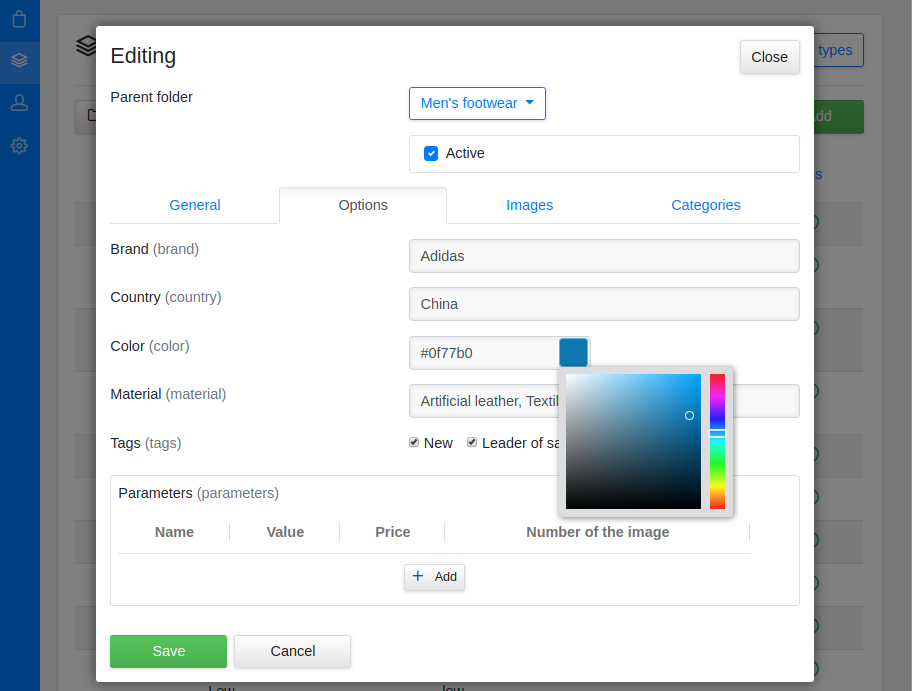
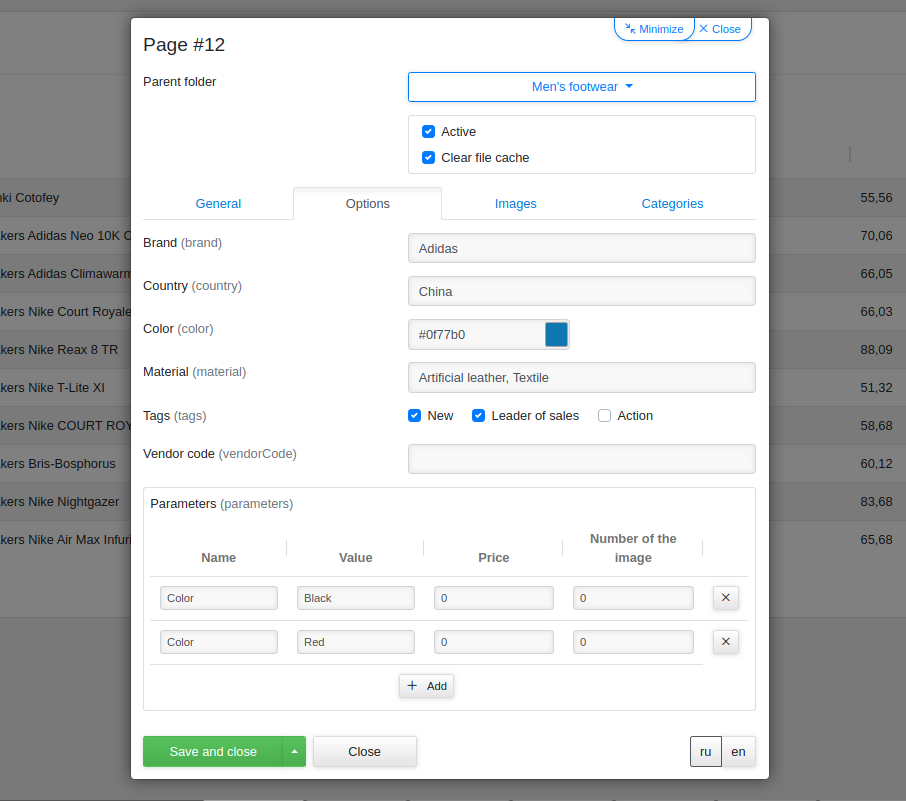
Minimize product modal

diff --git a/frontend/src/app/modal.abstract.ts b/frontend/src/app/modal.abstract.ts
@@ -1,4 +1,4 @@
-import {Input, OnDestroy, OnInit} from '@angular/core';
+import {ElementRef, Input, OnDestroy, OnInit} from '@angular/core';
 import {AbstractControl, FormBuilder, FormControl, FormGroup, Validators} from '@angular/forms';
 
 import {Subject} from 'rxjs';
@@ -15,8 +15,10 @@ import {FormFieldInterface, FormFieldOptionsInterface} from './models/form-field
  * @deprecated since version 4.1.1. Use AppModalContentAbstractComponent instead.
  */
 export abstract class ModalContentAbstractComponent<M> implements OnInit, OnDestroy {
+
     @Input() modalTitle: string;
     @Input() itemId: number | null;
+    @Input() modalId = '';
     @Input() isItemCopy: boolean;
     @Input() isEditMode: boolean;
 
@@ -45,7 +47,8 @@ export abstract class ModalContentAbstractComponent<M> implements OnInit, OnDest
         public systemNameService: SystemNameService,
         public activeModal: NgbActiveModal,
         public tooltipConfig: NgbTooltipConfig,
-        public translateService: TranslateService
+        public translateService: TranslateService,
+        public elRef: ElementRef
     ) {
         tooltipConfig.placement = 'bottom';
         tooltipConfig.container = 'body';
@@ -53,6 +56,9 @@ export abstract class ModalContentAbstractComponent<M> implements OnInit, OnDest
     }
 
     ngOnInit(): void {
+        if (this.elRef) {
+            this.getRootElement().setAttribute('id', this.modalId);
+        }
         this.onBeforeInit();
         this.buildForm();
         if (this.isEditMode || this.isItemCopy) {
@@ -209,7 +215,10 @@ export abstract class ModalContentAbstractComponent<M> implements OnInit, OnDest
     }
 
     /** Close modal */
-    closeModal() {
+    closeModal(event?: MouseEvent) {
+        if (event) {
+            event.preventDefault();
+        }
         const reason = this.itemId ? 'edit' : 'create';
         this.activeModal.close({reason: reason, data: this.model});
     }
@@ -219,6 +228,32 @@ export abstract class ModalContentAbstractComponent<M> implements OnInit, OnDest
             event.preventDefault();
         }
         this.activeModal.dismiss(this.closeReason);
+    }
+
+    minimize(event?: MouseEvent): void {
+        if (event) {
+            event.preventDefault();
+        }
+        window.document.body.classList.remove('modal-open');
+        const modalEl = this.getRootElement();
+        const backdropEl = modalEl.previousElementSibling;
+
+        modalEl.classList.remove('d-block');
+        modalEl.classList.add('modal-minimized');
+        backdropEl.classList.add('d-none');
+    }
+
+    maximize(event?: MouseEvent): void {
+        if (event) {
+            event.preventDefault();
+        }
+        window.document.body.classList.add('modal-open');
+        const modalEl = this.getRootElement();
+        const backdropEl = modalEl.previousElementSibling;
+
+        modalEl.classList.add('d-block');
+        modalEl.classList.remove('modal-minimized');
+        backdropEl.classList.remove('d-none');
     }
 
     getFormData(): any {
@@ -393,6 +428,10 @@ export abstract class ModalContentAbstractComponent<M> implements OnInit, OnDest
         } else if (!EMAIL_REGEXP.test(control.value)) {
             return {email: true};
         }
+    }
+
+    getRootElement(): HTMLElement {
+        return this.elRef.nativeElement.parentNode.parentNode.parentNode;
     }
 
     ngOnDestroy(): void {

diff --git a/frontend/src/app/catalog/templates/modal-product.html b/frontend/src/app/catalog/templates/modal-product.html
@@ -1,15 +1,31 @@
-<div class="position-relative">
+<div class="position-relative modal-on-maximized">
     <div class="tabs-top">
-        <button type="button" class="btn btn-outline-primary d-block d-md-inline-block ml-md-2"
+        <button type="button" class="btn btn-outline-primary btn-sm d-block"
                 [disabled]="submitted"
-                (click)="close($event)">
+                (click)="closeModal($event)">
             <i class="icon-cross mr-1"></i>
             <span>{{'CLOSE' | translate}}</span>
+        </button>
+        <button type="button" class="btn btn-outline-primary btn-sm d-block"
+                [disabled]="submitted"
+                (click)="minimize($event)">
+            <i class="icon-minimize mr-1"></i>
+            <span>{{'MINIMIZE' | translate}}</span>
         </button>
     </div>
 </div>
 <div class="modal-header d-block">
-    <h4 class="modal-title">{{modalTitle}}</h4>
+    <div class="position-relative modal-on-minimized">
+        <div class="pos-absolute-right">
+            <button type="button" class="btn btn-no-border btn-sm-sm" [title]="'EXPAND' | translate" (click)="maximize($event)">
+                <i class="icon-maximize"></i>
+            </button>
+            <button type="button" class="btn btn-no-border btn-sm-sm ml-1" [title]="'CLOSE' | translate" (click)="closeModal($event)">
+                <i class="icon-cross"></i>
+            </button>
+        </div>
+    </div>
+    <h4 class="modal-title text-overflow mr-5">{{modalTitle}}</h4>
 </div>
 
 <form [formGroup]="form" [class.loading]="loading">
@@ -97,7 +113,7 @@
                 </div>
             </div>
         </div>
-        <button type="button" class="btn btn-secondary btn-wide" (click)="close($event)">
+        <button type="button" class="btn btn-secondary btn-wide" (click)="closeModal($event)">
             <span>{{'CLOSE' | translate}}</span>
         </button>
     </div>

diff --git a/frontend/src/app/catalog/product.component.ts b/frontend/src/app/catalog/product.component.ts
@@ -1,4 +1,4 @@
-import {Component, Input, OnInit, ViewChild} from '@angular/core';
+import {Component, ElementRef, Input, OnInit, ViewChild} from '@angular/core';
 import {NgbActiveModal, NgbTooltipConfig} from '@ng-bootstrap/ng-bootstrap';
 import {FormControl, FormBuilder, Validators} from '@angular/forms';
 import {Observable} from 'rxjs';
@@ -22,7 +22,8 @@ import {FormFieldInterface} from '../models/form-field.interface';
 
 @Component({
     selector: 'app-product-modal-content',
-    templateUrl: 'templates/modal-product.html'
+    templateUrl: 'templates/modal-product.html',
+    providers: [ProductsService]
 })
 export class ProductModalContentComponent extends ModalContentAbstractComponent<Product> implements OnInit {
 
@@ -60,18 +61,22 @@ export class ProductModalContentComponent extends ModalContentAbstractComponent<
         public activeModal: NgbActiveModal,
         public tooltipConfig: NgbTooltipConfig,
         public translateService: TranslateService,
+        public elRef: ElementRef,
         private contentTypesService: ContentTypesService,
         private categoriesService: CategoriesService,
         private filesService: FilesService,
         private appSettings: AppSettings
     ) {
-        super(fb, dataService, systemNameService, activeModal, tooltipConfig, translateService);
+        super(fb, dataService, systemNameService, activeModal, tooltipConfig, translateService, elRef);
 
         this.model.id = 0;
         this.model.parentId = 0;
     }
 
     ngOnInit(): void {
+        if (this.elRef) {
+            this.getRootElement().setAttribute('id', this.modalId);
+        }
         this.localeList = this.appSettings.settings.localeList;
         if (this.localeList.length > 0) {
             this.localeDefault = this.localeList[0];

diff --git a/frontend/src/app/catalog/catalog-category.component.ts b/frontend/src/app/catalog/catalog-category.component.ts
@@ -16,7 +16,8 @@ import {ContentTypesService} from './services/content_types.service';
 
 @Component({
     selector: 'app-catalog-category',
-    templateUrl: 'templates/catalog-category.html'
+    templateUrl: 'templates/catalog-category.html',
+    providers: [ProductsService]
 })
 export class CatalogCategoryComponent extends PageTableAbstractComponent<Product> implements OnInit {
 
@@ -112,9 +113,19 @@ export class CatalogCategoryComponent extends PageTableAbstractComponent<Product
         this.getList();
     }
 
-    setModalInputs(itemId?: number, isItemCopy: boolean = false): void {
-        PageTableAbstractComponent.prototype.setModalInputs.call(this, itemId, isItemCopy);
-        this.modalRef.componentInstance.category = this.currentCategory;
+    setModalInputs(itemId?: number, isItemCopy: boolean = false, modalId = ''): void {
+        const isEditMode = typeof itemId !== 'undefined' && !isItemCopy;
+        this.modalRef.componentInstance.modalTitle = isEditMode
+            ? `${this.getLangString('PAGE')} #${itemId}`
+            : this.getLangString('ADD');
+        this.modalRef.componentInstance.modalId = modalId;
+        this.modalRef.componentInstance.itemId = itemId || 0;
+        this.modalRef.componentInstance.isItemCopy = isItemCopy || false;
+        this.modalRef.componentInstance.isEditMode = isEditMode;
+        this.modalRef.componentInstance.category = Object.assign({}, this.currentCategory);
     }
 
+    getModalElementId(itemId?: number): string {
+        return ['modal', 'product', itemId || 0].join('-');
+    }
 }

diff --git a/frontend/src/app/catalog/content-types.component.ts b/frontend/src/app/catalog/content-types.component.ts
@@ -1,4 +1,4 @@
-import {Component, OnInit, ViewChild} from '@angular/core';
+import {Component, ElementRef, OnInit, ViewChild} from '@angular/core';
 import {FormGroup, FormBuilder, Validators} from '@angular/forms';
 import {NgbModal, NgbActiveModal, NgbModalRef, NgbPopover, NgbTooltipConfig} from '@ng-bootstrap/ng-bootstrap';
 import {find, map, findIndex, cloneDeep, extend} from 'lodash';
@@ -165,22 +165,23 @@ export class ContentTypeModalContentComponent extends ModalContentAbstractCompon
         public activeModal: NgbActiveModal,
         public tooltipConfig: NgbTooltipConfig,
         public translateService: TranslateService,
+        public elRef: ElementRef,
         private fieldTypesService: FieldTypesService,
         private collectionsService: CollectionsService,
         private modalService: NgbModal
     ) {
-        super(fb, dataService, systemNameService, activeModal, tooltipConfig, translateService);
+        super(fb, dataService, systemNameService, activeModal, tooltipConfig, translateService, elRef);
     }
 
     /** On initialize */
     ngOnInit(): void {
-        ModalContentAbstractComponent.prototype.ngOnInit.call(this);
+        super.ngOnInit();
         this.getFieldTypes();
         this.getCollectionsList();
     }
 
     buildForm(): void {
-        ModalContentAbstractComponent.prototype.buildForm.call(this);
+        super.buildForm();
 
         const controls = this.buildControls(this.fieldsFormOptions, 'fieldModel', 'fld_');
         this.fieldForm = this.fb.group(controls);

diff --git a/frontend/src/app/catalog/categories.component.ts b/frontend/src/app/catalog/categories.component.ts
@@ -13,6 +13,7 @@ import {Router, ActivatedRoute} from '@angular/router';
 import {FormBuilder, Validators} from '@angular/forms';
 
 import {Observable, Subject} from 'rxjs';
+import {takeUntil} from 'rxjs/operators';
 import {TreeNode} from 'primeng/primeng';
 
 import {findIndex, clone, cloneDeep} from 'lodash';
@@ -254,6 +255,7 @@ export class CategoriesMenuComponent implements OnInit, OnDestroy {
         this.getCategories().then((categories: Category[]) => {
             this.loading = false;
             this.route.paramMap
+                .pipe(takeUntil(this.destroyed$))
                 .subscribe(
                     params => {
                         this.categoryId = params.get('categoryId')
@@ -292,7 +294,6 @@ export class CategoriesMenuComponent implements OnInit, OnDestroy {
                             this.categories = data.items;
                             this.categoriesTree = [Category.createTree(data.items)];
                         }
-                        this.selectCurrent();
                         resolve(data.items);
                     },
                     error => {

diff --git a/frontend/src/app/templates/render-input-field.html b/frontend/src/app/templates/render-input-field.html
@@ -434,8 +434,7 @@
                                             <tr class="bg-faded">
                                                 <td colspan="4" class="text-center pb-2">
                                                     <button type="button" class="btn btn-secondary btn-sm" (click)="parametersAdd(field.name)">
-                                                        <i class="icon-plus"></i>
-                                                        &nbsp;
+                                                        <i class="icon-plus mr-1"></i>
                                                         <span>{{'ADD' | translate}}</span>
                                                     </button>
                                                 </td>

diff --git a/public/admin/i18n/ru.js b/public/admin/i18n/ru.js
@@ -116,6 +116,7 @@ var APP_LANG = {
     "ORDER_CONTENT": "Состав заказа",
     "OUTPUT_OPTIONS": "Параметры вывода",
     "OUTPUT_TYPE": "Тип вывода",
+    "PAGE": "Страница",
     "PARAMETER": "Параметр",
     "PARENT_FOLDER": "Родительская категория",
     "PASSWORD": "Пароль",
@@ -128,6 +129,7 @@ var APP_LANG = {
     "PRINT": "Печать",
     "PLEASE_SELECT_FILE": "Пожалуйста, выберите файл.",
     "PLEASE_FIX_FORM_ERRORS": "Пожалуйста, исправьте ошибки заполнения формы.",
+    "PRODUCT": "Товар",
     "QUANTITY": "Кол-во",
     "REFRESH": "Обновить",
     "REMOVE": "Удалить",

diff --git a/public/admin/i18n/en.js b/public/admin/i18n/en.js
@@ -116,6 +116,7 @@ var APP_LANG = {
     "ORDER_CONTENT": "Order list",
     "OUTPUT_OPTIONS": "Output options",
     "OUTPUT_TYPE": "Output type",
+    "PAGE": "Page",
     "PARAMETER": "Parameter",
     "PARENT_FOLDER": "Parent folder",
     "PASSWORD": "Password",
@@ -128,6 +129,7 @@ var APP_LANG = {
     "PRINT": "Print",
     "PLEASE_SELECT_FILE": "Please select a file.",
     "PLEASE_FIX_FORM_ERRORS": "Please fix form errors.",
+    "PRODUCT": "Product",
     "QUANTITY": "Quantity",
     "REFRESH": "Refresh",
     "REMOVE": "Remove",
